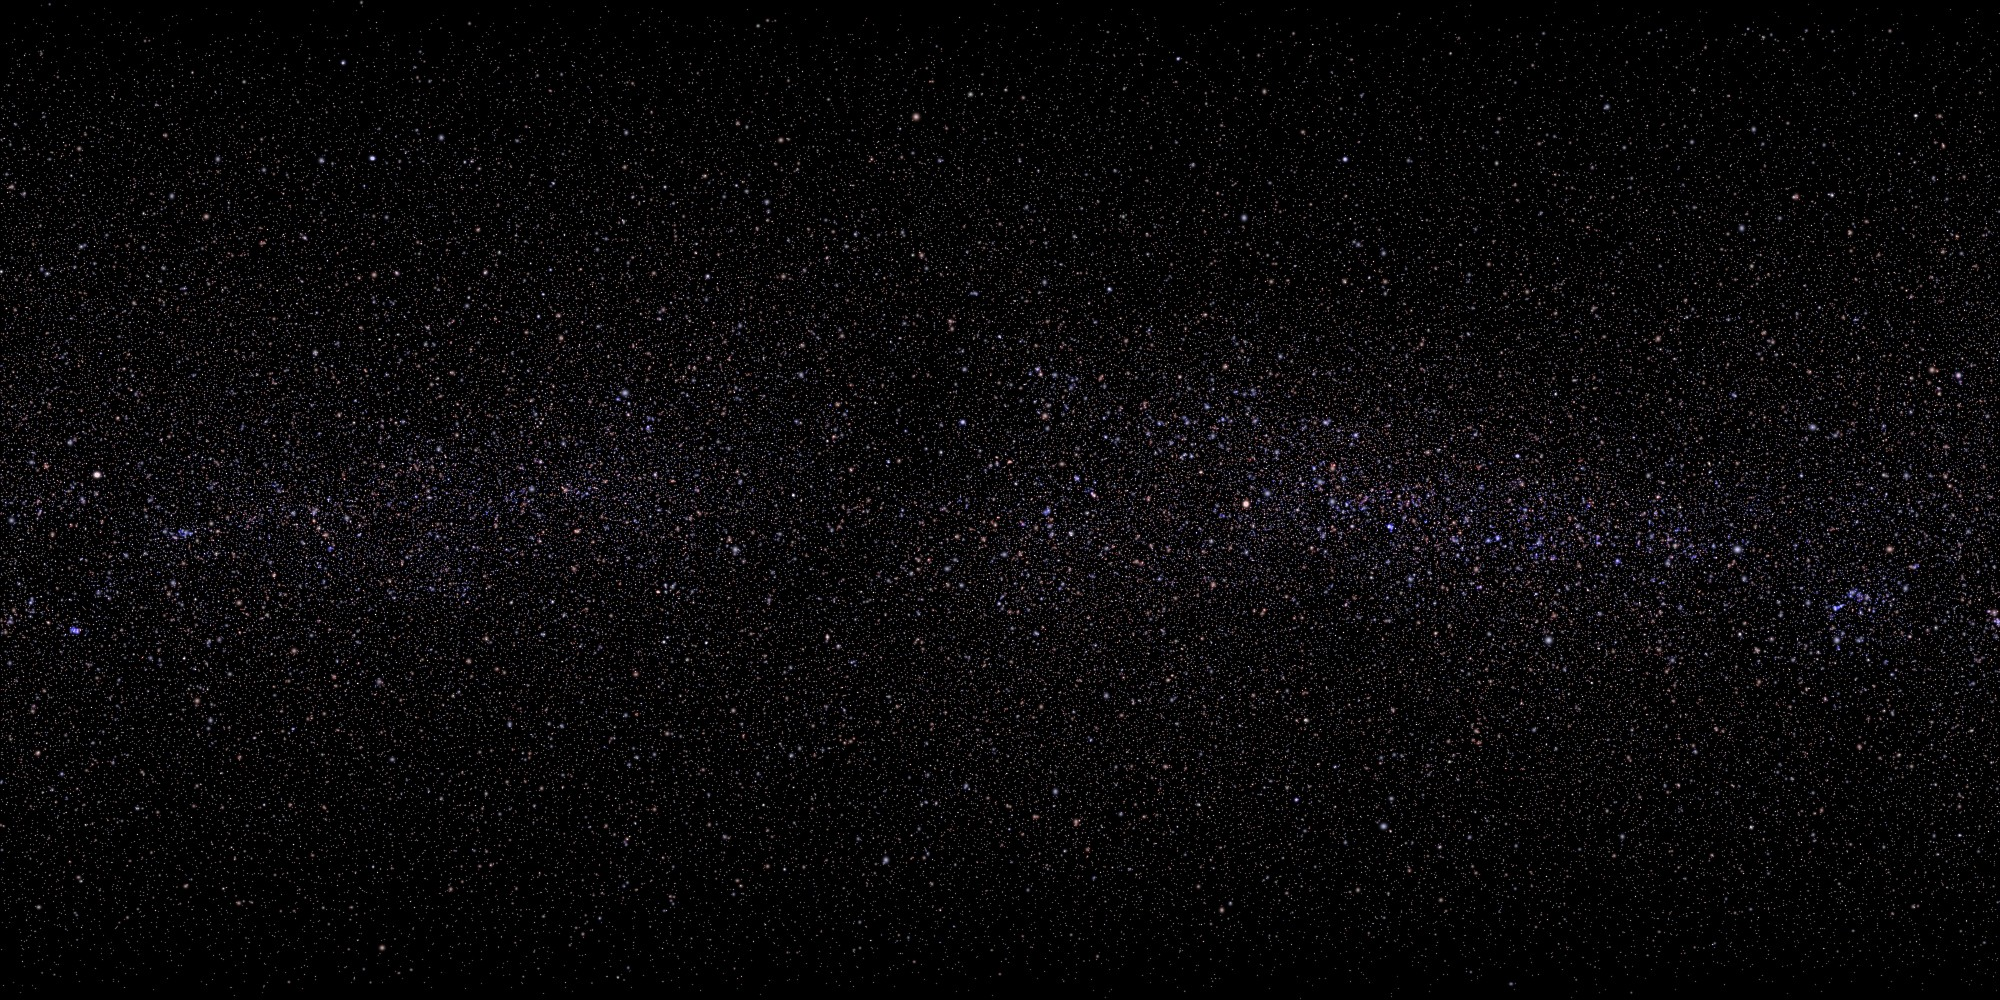
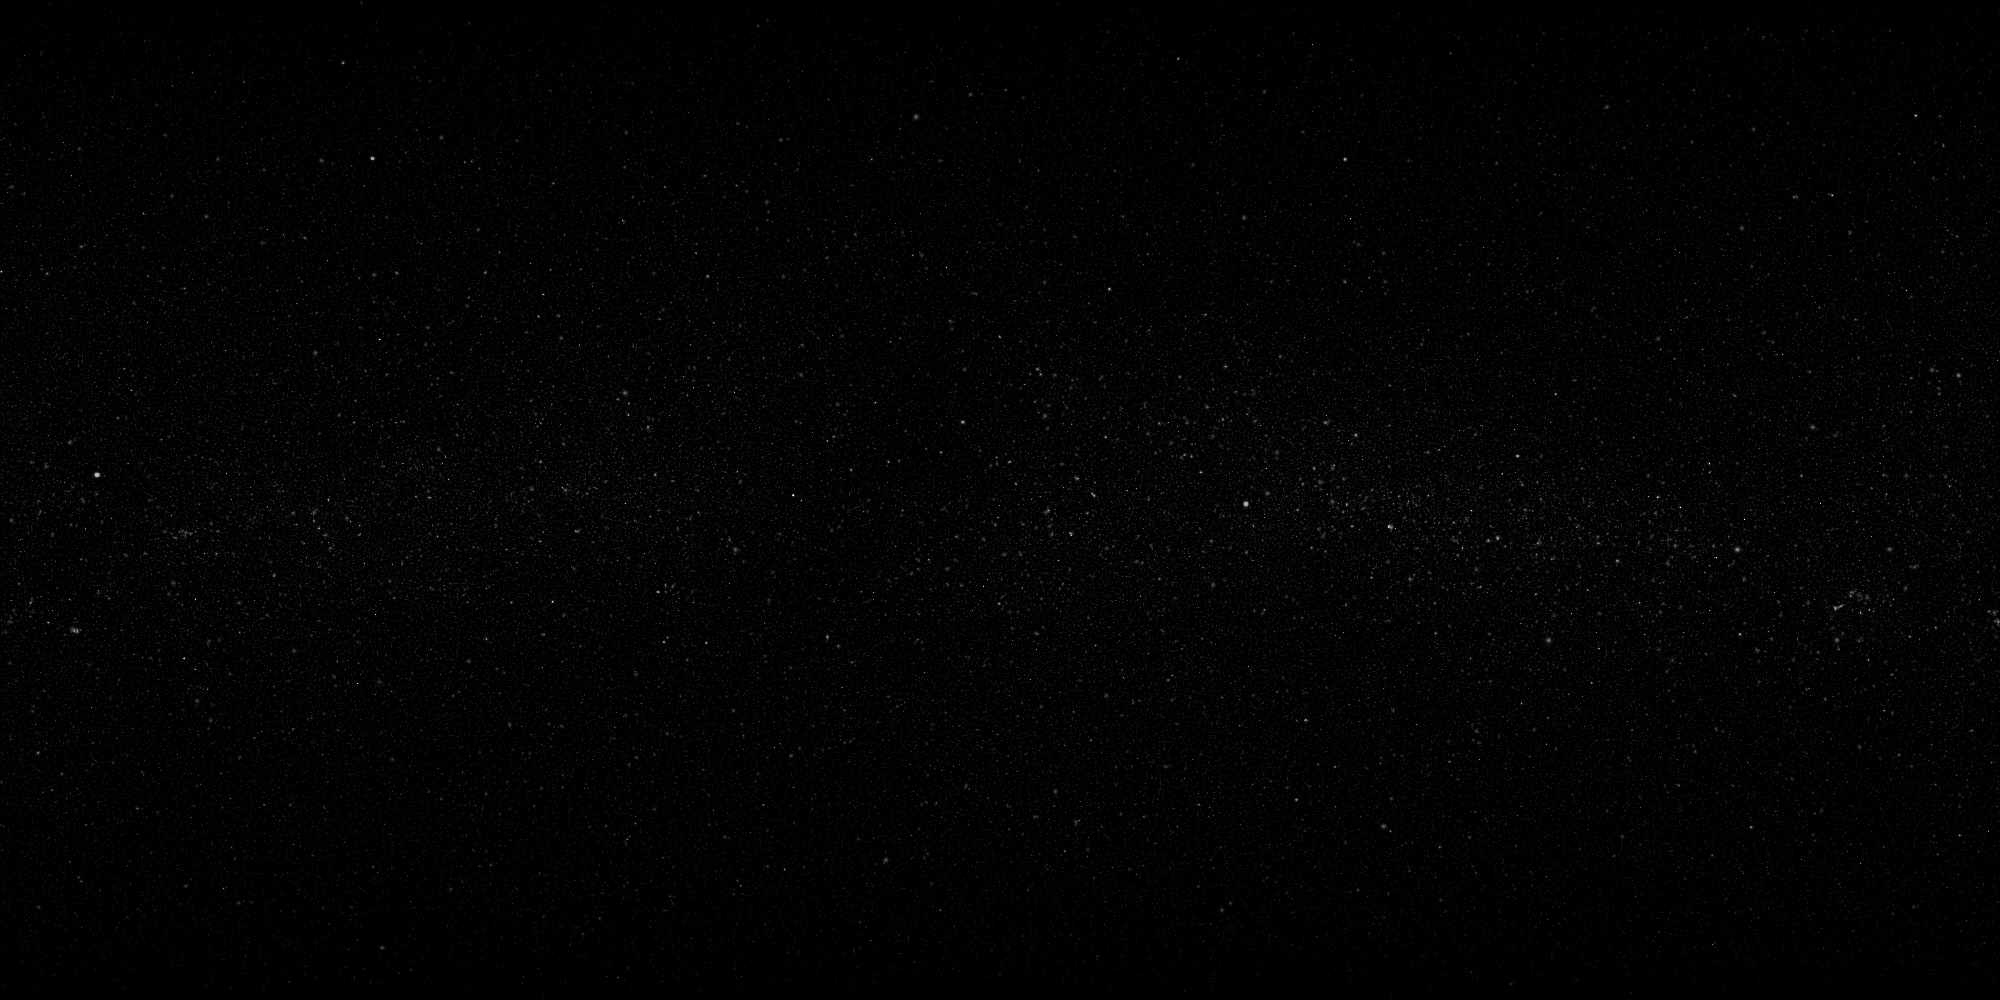
Fix cover image url, star background fade to transparent

diff --git a/_site/assets/css/site.css b/_site/assets/css/site.css
@@ -9,8 +9,8 @@ body {
 body {
   background-color: #022248;
   padding-bottom: 60px;
-  background: url("cover.jpg") no-repeat center center fixed;
-  background-image: linear-gradient(rgba(2, 34, 72, 0.8), rgba(2, 34, 72, 0.8)), url("cover.jpg");
+  background: url("../cover.jpg") no-repeat center center fixed;
+  background-image: linear-gradient(rgba(2, 34, 72, 0.8), rgba(2, 34, 72, 0.8)), url("../cover.jpg");
   -webkit-background-size: cover;
   -moz-background-size: cover;
   -o-background-size: cover;
@@ -28,72 +28,18 @@ nav.navbar{
    -webkit-text-stroke-color: black; */
    font-family: 'Lobster', cursive;
 }
-/*
-#stars-bg {
-  background-color: black;
-  background-image: url("../stars.jpg");
-  background-image: url('assets/stars.jpg'), -moz-linear-gradient(rgba(0, 0, 0, 0.0), rgba(0, 0, 0, 1), rgba(0, 0, 0, 1));
-  background-image: url('assets/stars.jpg'), -webkit-linear-gradient(rgba(0, 0, 0, 0.0), rgba(0, 0, 0, 1), rgba(0, 0, 0, 1));
-  background-image: url('assets/stars.jpg'), linear-gradient(rgba(0, 0, 0, 0.0), rgba(0, 0, 0, 1), rgba(0, 0, 0, 1));
-} */
-/*
-#stars-bg {
-  background: #000 url('../stars.jpg') 0 0 no-repeat;
-
-  background: url('../stars.jpg'), -moz-linear-gradient(top, rgba(255,255,255,0) 0%, rgba(130,91,0,1) 100%);
-  background: url('../stars.jpg'), -webkit-gradient(linear, left top, left bottom, color-stop(0%,rgba(255,255,255,0)), color-stop(100%,rgba(130,91,0,1)));
-  background: url('../stars.jpg'), -webkit-linear-gradient(top, rgba(255,255,255,0) 0%,rgba(130,91,0,1) 100%);
-  background: url('../stars.jpg'), -o-linear-gradient(top, rgba(255,255,255,0) 0%,rgba(130,91,0,1) 100%);
-  background: url('../stars.jpg'), -ms-linear-gradient(top, rgba(255,255,255,0) 0%,rgba(130,91,0,1) 100%);
-  background: url('../stars.jpg'), linear-gradient(to bottom, rgba(255,255,255,0) 0%,rgba(130,91,0,1) 100%);
-  filter: progid:DXImageTransform.Microsoft.gradient( startColorstr='#00ffffff', endColorstr='#825b00',GradientType=0 );
-} */
-
-/* #stars-bg {
-  width: 200px;
-  height: 200px;
-  display: block;
-  position: relative;
-} */
-/*
-#stars-bg::after {
-  content: "";
-  background: url("../stars.jpg");
-  opacity: 0.5;
-  top: 0;
-  left: 0;
-  bottom: 0;
-  right: 0;
-  position: absolute;
-  z-index: -1;
-} */
 
 #stars {
   position: absolute;
   left: 0;
   top: 0;
   height: 100%;
-  -webkit-mask-image:-webkit-gradient(linear, left top, left bottom, from(rgba(0,0,0,0)), to(rgba(0,0,0,1)));
-  mask-image: linear-gradient(rgba(0,0,0,0), rgba(0,0,0,1));
+  width: 100%;
+  /* -webkit-mask-image:-webkit-gradient(linear, left top, left bottom, from(rgba(0,0,0,0)), to(rgba(0,0,0,1))); */
+  -webkit-mask-image:-webkit-linear-gradient(rgba(0,0,0,0), rgba(0,0,0,1), rgba(0,0,0,1));
+  mask-image: linear-gradient(rgba(0,0,0,0), rgba(0,0,0,1), rgba(0,0,0,1));
 }
 
 #stars-bg {
   position: relative;
 }
-
-/*
-
-    background-color: transparent;
-    background-position: 0 0;
-    background-repeat: no-repeat;
-
-    background-image: url('../stars.jpg');
-
-
-    background-image: url('../stars.jpg'), -moz-linear-gradient(rgba(0, 0, 0, 0.0), rgba(0, 0, 0, 1), rgba(0, 0, 0, 1));
-    background-image: url('../stars.jpg'), -webkit-linear-gradient(rgba(0, 0, 0, 0.0), rgba(0, 0, 0, 1), rgba(0, 0, 0, 1));
-    background-image: url('../stars.jpg'), linear-gradient(rgba(0, 0, 0, 0.0), rgba(0, 0, 0, 1), rgba(0, 0, 0, 1));
-
-
-    filter: progid:DXImageTransform.Microsoft.gradient(startColorstr='#ADB2B6', endColorstr='#ABAEB3', GradientType=0);
-*/

diff --git a/assets/css/site.css b/assets/css/site.css
@@ -9,8 +9,8 @@ body {
 body {
   background-color: #022248;
   padding-bottom: 60px;
-  background: url("cover.jpg") no-repeat center center fixed;
-  background-image: linear-gradient(rgba(2, 34, 72, 0.8), rgba(2, 34, 72, 0.8)), url("cover.jpg");
+  background: url("../cover.jpg") no-repeat center center fixed;
+  background-image: linear-gradient(rgba(2, 34, 72, 0.8), rgba(2, 34, 72, 0.8)), url("../cover.jpg");
   -webkit-background-size: cover;
   -moz-background-size: cover;
   -o-background-size: cover;
@@ -28,72 +28,18 @@ nav.navbar{
    -webkit-text-stroke-color: black; */
    font-family: 'Lobster', cursive;
 }
-/*
-#stars-bg {
-  background-color: black;
-  background-image: url("../stars.jpg");
-  background-image: url('assets/stars.jpg'), -moz-linear-gradient(rgba(0, 0, 0, 0.0), rgba(0, 0, 0, 1), rgba(0, 0, 0, 1));
-  background-image: url('assets/stars.jpg'), -webkit-linear-gradient(rgba(0, 0, 0, 0.0), rgba(0, 0, 0, 1), rgba(0, 0, 0, 1));
-  background-image: url('assets/stars.jpg'), linear-gradient(rgba(0, 0, 0, 0.0), rgba(0, 0, 0, 1), rgba(0, 0, 0, 1));
-} */
-/*
-#stars-bg {
-  background: #000 url('../stars.jpg') 0 0 no-repeat;
-
-  background: url('../stars.jpg'), -moz-linear-gradient(top, rgba(255,255,255,0) 0%, rgba(130,91,0,1) 100%);
-  background: url('../stars.jpg'), -webkit-gradient(linear, left top, left bottom, color-stop(0%,rgba(255,255,255,0)), color-stop(100%,rgba(130,91,0,1)));
-  background: url('../stars.jpg'), -webkit-linear-gradient(top, rgba(255,255,255,0) 0%,rgba(130,91,0,1) 100%);
-  background: url('../stars.jpg'), -o-linear-gradient(top, rgba(255,255,255,0) 0%,rgba(130,91,0,1) 100%);
-  background: url('../stars.jpg'), -ms-linear-gradient(top, rgba(255,255,255,0) 0%,rgba(130,91,0,1) 100%);
-  background: url('../stars.jpg'), linear-gradient(to bottom, rgba(255,255,255,0) 0%,rgba(130,91,0,1) 100%);
-  filter: progid:DXImageTransform.Microsoft.gradient( startColorstr='#00ffffff', endColorstr='#825b00',GradientType=0 );
-} */
-
-/* #stars-bg {
-  width: 200px;
-  height: 200px;
-  display: block;
-  position: relative;
-} */
-/*
-#stars-bg::after {
-  content: "";
-  background: url("../stars.jpg");
-  opacity: 0.5;
-  top: 0;
-  left: 0;
-  bottom: 0;
-  right: 0;
-  position: absolute;
-  z-index: -1;
-} */
 
 #stars {
   position: absolute;
   left: 0;
   top: 0;
   height: 100%;
-  -webkit-mask-image:-webkit-gradient(linear, left top, left bottom, from(rgba(0,0,0,0)), to(rgba(0,0,0,1)));
-  mask-image: linear-gradient(rgba(0,0,0,0), rgba(0,0,0,1));
+  width: 100%;
+  /* -webkit-mask-image:-webkit-gradient(linear, left top, left bottom, from(rgba(0,0,0,0)), to(rgba(0,0,0,1))); */
+  -webkit-mask-image:-webkit-linear-gradient(rgba(0,0,0,0), rgba(0,0,0,1), rgba(0,0,0,1));
+  mask-image: linear-gradient(rgba(0,0,0,0), rgba(0,0,0,1), rgba(0,0,0,1));
 }
 
 #stars-bg {
   position: relative;
 }
-
-/*
-
-    background-color: transparent;
-    background-position: 0 0;
-    background-repeat: no-repeat;
-
-    background-image: url('../stars.jpg');
-
-
-    background-image: url('../stars.jpg'), -moz-linear-gradient(rgba(0, 0, 0, 0.0), rgba(0, 0, 0, 1), rgba(0, 0, 0, 1));
-    background-image: url('../stars.jpg'), -webkit-linear-gradient(rgba(0, 0, 0, 0.0), rgba(0, 0, 0, 1), rgba(0, 0, 0, 1));
-    background-image: url('../stars.jpg'), linear-gradient(rgba(0, 0, 0, 0.0), rgba(0, 0, 0, 1), rgba(0, 0, 0, 1));
-
-
-    filter: progid:DXImageTransform.Microsoft.gradient(startColorstr='#ADB2B6', endColorstr='#ABAEB3', GradientType=0);
-*/
